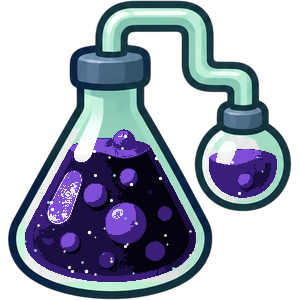
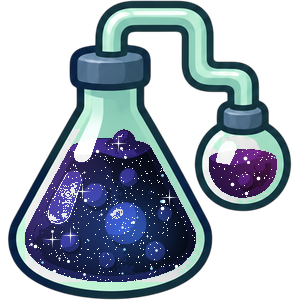
Galaxy dye: black space, nebula and lots of white stars like the Galaxy skin
Claude-Session: https://claude.ai/code/session_016T1x9t3fXLSJ9Wj3N5qPHM

Changed region(s): [[0.06, 0.42, 0.66, 0.96], [0.69, 0.48, 0.93, 0.66], [0.24, 0.48, 0.27, 0.51]]

diff --git a/scripts/make_bottles2.py b/scripts/make_bottles2.py
@@ -39,7 +39,7 @@ TONES = {
     'sakura': ['#a8346a', '#e0679a', '#f7a8c6', '#ffe0ee'], 'ocean': ['#0c1c5a', '#1e48a6', '#3b86d6', '#9fdcff'],
     'ember': ['#7a0a0a', '#d81c10', '#ff7a14', '#ffd23a'], 'moonlit': ['#1a1e5a', '#3a44a8', '#6e74d6', '#c8ccff'],
     'crystal': ['#1f3aa8', '#4f7ae8', '#9ec2ff', '#eef4ff'], 'shadow': ['#050308', '#16101f', '#2c2240', '#6a4aa0'],
-    'galaxy': ['#05030f', '#1a0f40', '#3a1f7a', '#7e4fd6'], 'ancient': ['#2a1046', '#4e2486', '#7a4ac0', '#b48ae8'],
+    'galaxy': ['#000000', '#05030f', '#130a30', '#2c1666'], 'ancient': ['#2a1046', '#4e2486', '#7a4ac0', '#b48ae8'],
     'harvest': ['#7a2e0e', '#d25c1c', '#f69832', '#ffd88a'],
 }
 DYES = {'pastel': 'common', 'mono': 'common', 'retro': 'common', 'slime': 'uncommon', 'sakura': 'rare', 'ocean': 'rare',
@@ -85,7 +85,26 @@ def dye(skin, shape):
         col = tones[np.clip(level + tilt[idx], 0, 3)]
     add = []
     post = []
-    if skin in ('galaxy',): add = [(specks(liq, 34, 3, 1.2, 2.4), '#ffffff'), (specks(liq, 10, 4, 1, 1.8), '#9fe6ff')]
+    if skin == 'galaxy':
+        # Like the Galaxy skin: near-black space, soft magenta and blue nebula, lots of white stars and a few sparkles.
+        from scipy import ndimage
+        inside = ndimage.binary_fill_holes(ndimage.binary_closing(liq > 0, iterations=4)).astype(np.float32)
+        r2 = np.random.default_rng(31)
+        neb = np.zeros((SIZE, SIZE), dtype=np.float32); neb2 = neb.copy()
+        for k in range(4):
+            cx, cy, rr = r2.uniform(0, SIZE), r2.uniform(top, bot), r2.uniform(25, 55)
+            (neb if k % 2 == 0 else neb2)[...] += np.exp(-(((xx - cx) ** 2 + (yy - cy) ** 2) / (2 * rr * rr)))
+        col = col * (1 - (neb * 0.55)[..., None]) + hexc('#c23ab8') * (neb * 0.55)[..., None] * (0.5 + level[..., None] / 6)
+        col = col * (1 - (neb2 * 0.45)[..., None]) + hexc('#3f7fff') * (neb2 * 0.45)[..., None] * (0.5 + level[..., None] / 6)
+        stars = (r2.random((SIZE, SIZE)) > 0.975).astype(np.float32) * inside
+        big = specks(inside, 26, 3, 1.4, 2.6)
+        sp = np.zeros((SIZE, SIZE), dtype=np.float32)
+        ys2, xs2 = np.nonzero(inside > 0.5)
+        for _ in range(5):
+            k = r2.integers(0, len(ys2)); cy, cx = ys2[k], xs2[k]
+            sp = np.maximum(sp, np.clip(1 - (np.abs(xx - cx) / 9 + np.abs(yy - cy) / 1.4), 0, 1))
+            sp = np.maximum(sp, np.clip(1 - (np.abs(yy - cy) / 9 + np.abs(xx - cx) / 1.4), 0, 1))
+        post = [(stars, '#ffffff'), (big, '#ffffff'), (specks(inside, 10, 4, 1, 1.8), '#9fe6ff'), (sp * inside, '#ffffff')]
     if skin == 'moonlit': add = [(specks(liq, 10, 5, 1.4, 2.6), '#fff3b0')]
     if skin == 'ancient':
         # Gold hieroglyphs carved into the liquid: an eye, an ankh, a feather and a zigzag (water).
